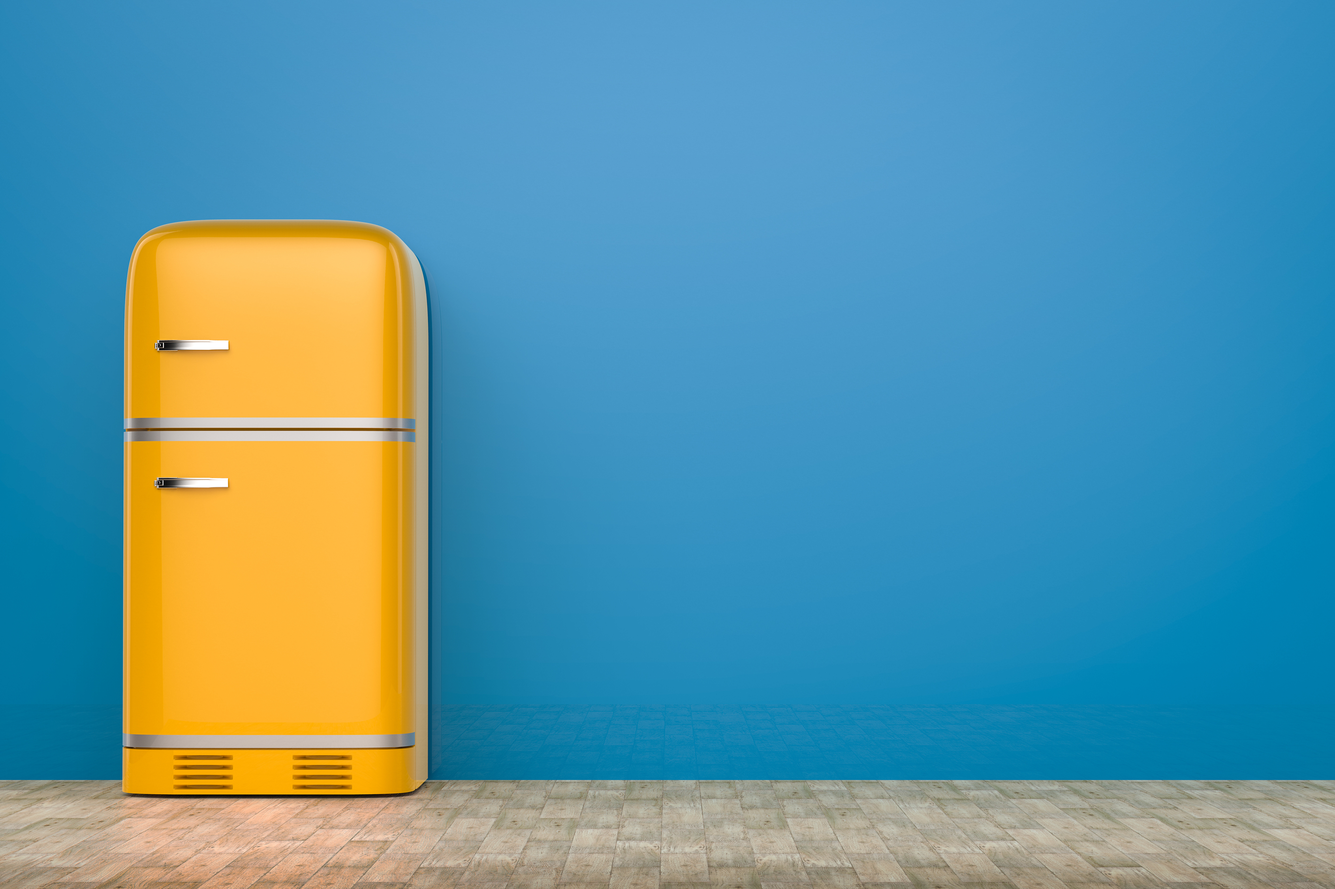
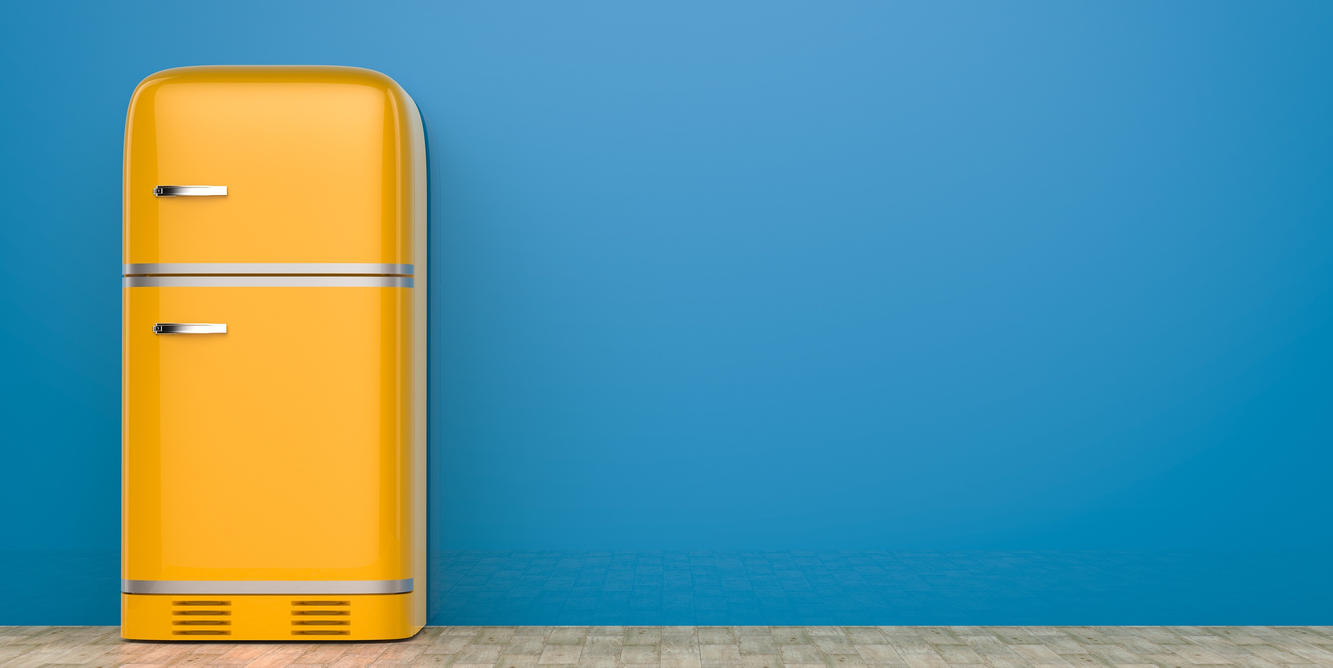
styling

Changed region(s): [[0.0, 0.7965, 1.0, 1.0], [0.0932, 0.0919, 0.3419, 0.674]]

diff --git a/assets/css/style.css b/assets/css/style.css
@@ -1,3 +1,5 @@
 body {
 	background-image: url("../images/yellow-fridge.jpg");
+	background-size: cover;
 }
+
